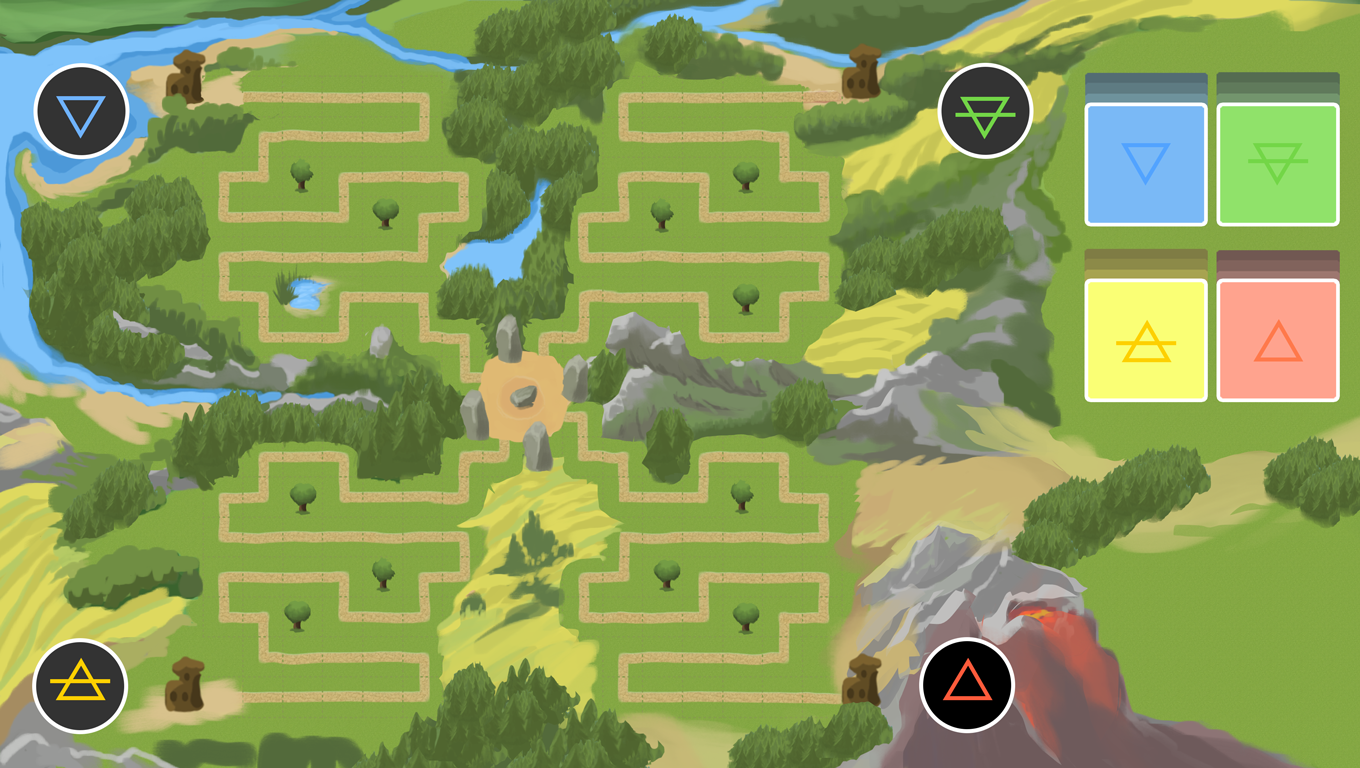
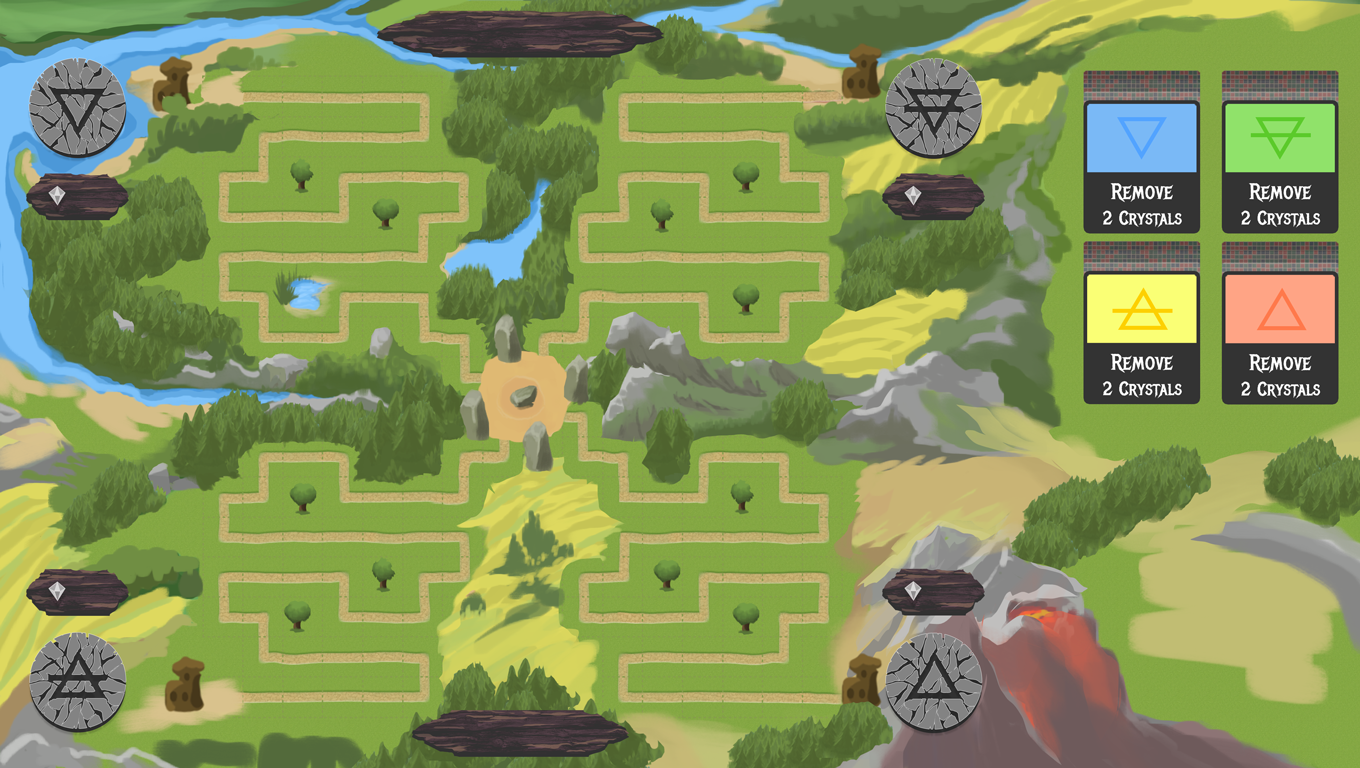
update of the map and drawing number of collected diamonds

diff --git a/playerhud.cpp b/playerhud.cpp
@@ -5,22 +5,6 @@
 bool PlayerHud::addElem(int pos, int type) {
 
     int price = textures->tilesDescription[type][0];
-
-
-//    if (price<=cash)
-//    {
-//        efc::BoardElem startElem(textures, pos,type);
-//        startElem.setColor(efc::playersColors[this->pos]);
-//        elems.items.push_back(startElem);
-//        elems.items_map.insert({pos, startElem});
-
-//        cash -= price;
-//        updateTxt();
-////        characters.push_back(Character (this->textures, this->pos));
-
-//        return true;
-
-//    }
     return false;
 }
 
@@ -28,7 +12,6 @@ std::set<int> PlayerHud::getTerrainSet(){
     std::set<int> terrain;
     for (int i: efc::terrainArray)
     {
-//        std::cout << i << std::endl;
         terrain.insert(i);
     }
     return terrain;
@@ -76,28 +59,18 @@ std::set<int> PlayerHud::getNeighbours(){
 }
 
 void PlayerHud::updateTxt(){
-    txtCash.setString(  "Cash: " + std::to_string(cash));
-    txtFood.setString(  "Food: " + std::to_string(food));
-    txtEnergy.setString("Enrg: " + std::to_string(energy));
-    txtFaith.setString( "Gods: " + std::to_string(faith));
+    txtCash.setString(std::to_string(cash));
+//    txtFood.setString(  "Food: " + std::to_string(food));
+//    txtEnergy.setString("Enrg: " + std::to_string(energy));
+//    txtFaith.setString( "Gods: " + std::to_string(faith));
 
 }
 
 
 void PlayerHud::updatePlayer(){
-    for (const efc::BoardElem &i: elems.items)
-    {
-//        int cashUpd  = textures->tilesDescription[i.type][1];
-//        int foodUpd  = textures->tilesDescription[i.type][3];
-//        int enrgUpd  = textures->tilesDescription[i.type][5];
-//        int faithUpd  = textures->tilesDescription[i.type][7];
 
-//        cash += cashUpd;
-//        energy += enrgUpd;
-//        food += foodUpd;
-//        faith += faithUpd;
-        updateTxt();
-    }
+    updateTxt();
+
 }
 
 PlayerHud::PlayerHud()
@@ -157,6 +130,8 @@ PlayerHud::PlayerHud(TextureHolder *textures, int faceNumber,  sf::Font *gameFon
     int y = (int) faceNumber /10;
 
     txtCash.setFont(*gameFont);
+    txtCash.setCharacterSize(20);
+
     txtFood.setFont(*gameFont);
     txtEnergy.setFont(*gameFont);
     txtFaith.setFont(*gameFont);
@@ -166,6 +141,20 @@ PlayerHud::PlayerHud(TextureHolder *textures, int faceNumber,  sf::Font *gameFon
     txtNextRound.setCharacterSize(12);
     txtNextRound.setPosition(40,(pos*100)+10);
 
+
+    int posX1 = 70;
+    int posX2 = 920;
+    int posY1 = 175;
+    int posY2 = 575;
+    std::array<std::array<int,2>,4> textPos =
+    {
+        {
+            {posX1,posY1}, {posX2,posY1},
+            {posX1,posY2}, {posX2, posY2}
+        }
+    };
+
+    txtCash.setPosition(textPos[pos][0],textPos[pos][1] );
 
 
 
@@ -197,9 +186,7 @@ std::string PlayerHud::getElem(sf::Vector2f mousePosition) {
 void PlayerHud::draw(sf::RenderTarget& target, sf::RenderStates states) const
 {
     states.transform *= getTransform();
-    if (active)
-        target.draw(txtNextRound, states);
-
+    target.draw(txtCash, states);
 }
 void PlayerHud::play()
 {
@@ -210,6 +197,7 @@ void PlayerHud::play()
 }
 void PlayerHud::update(sf::Time deltaTime, std::set<int>& busyTiles)
 {
+    updateTxt();
     for (auto&& i: characters)
     {
 

diff --git a/game.cpp b/game.cpp
@@ -532,7 +532,7 @@ void Game::drawPlayersGui(){
         window.draw(players[i]);
     }
 
-    window.draw(seasons[currentSeason]);
+//    window.draw(seasons[currentSeason]);
 }
 
 void Game::drawSquares() {
@@ -553,7 +553,6 @@ void Game::drawBaseGame()
     }
     drawSquares();
     window.setView(viewGui);
-    drawPlayersGui();
     window.setView(viewTiles);
 }
 
@@ -568,6 +567,7 @@ void Game::drawCharacters(){
     window.draw(roundDice.spriteDice);
     window.setView(viewTiles);
     drawSquares();
+
     if (currentState==state_game)
     {
         std::array<int,2> currentMovements = players[turn].characters[0].getMovements(diceResultPlayer);
@@ -604,6 +604,10 @@ void Game::render()
         drawBaseGame();
         drawCharacters();
         window.draw(boardDiamonds);
+        window.setView(viewFull);
+
+        drawPlayersGui();
+
     } else if (currentState==state_roll_dice) {
         window.setView(viewFull);
         window.draw(spriteBackgroundDark);
@@ -611,6 +615,9 @@ void Game::render()
         drawBaseGame();
         drawCharacters();
         window.draw(boardDiamonds);
+        window.setView(viewFull);
+
+        drawPlayersGui();
 
     } else if (currentState==state_gui_elem) {
         window.setView(viewFull);

diff --git a/grouphud.cpp b/grouphud.cpp
@@ -14,16 +14,16 @@ GroupHud::GroupHud(){
 }
 
 void GroupHud::setFont(sf::Font *gameFont) {
-    move(20,2);
+    move(440,12);
     seasonName.setFont(*gameFont);
     roundName.setFont(*gameFont);
     monthName.setFont(*gameFont);
-    seasonName.setColor(sf::Color(0,0,0,255));
+    seasonName.setColor(sf::Color(255,255,255,200));
     seasonName.setCharacterSize(30);
     roundName.setCharacterSize(30);
     monthName.setCharacterSize(30);
-    roundName.setColor(sf::Color(0,0,0,255));
-    roundName.move(1200, 0);
+    roundName.setColor(sf::Color(255,255,255,200));
+    roundName.move(30, 700);
 //    monthName.move(400, 0);
     setMonthName(1);
 }

diff --git a/rounddice.cpp b/rounddice.cpp
@@ -68,9 +68,9 @@ int RoundDice::throwDiceSix(){
 
 void RoundDice::eventExtraCash(){
 
-    for (int i=0;i<4;i++)
-    {
-        playersHud[i].cash += 20;
-        playersHud[i].updateTxt();
-    }
+//    for (int i=0;i<4;i++)
+//    {
+//        playersHud[i].cash += 20;
+//        playersHud[i].updateTxt();
+//    }
 }
